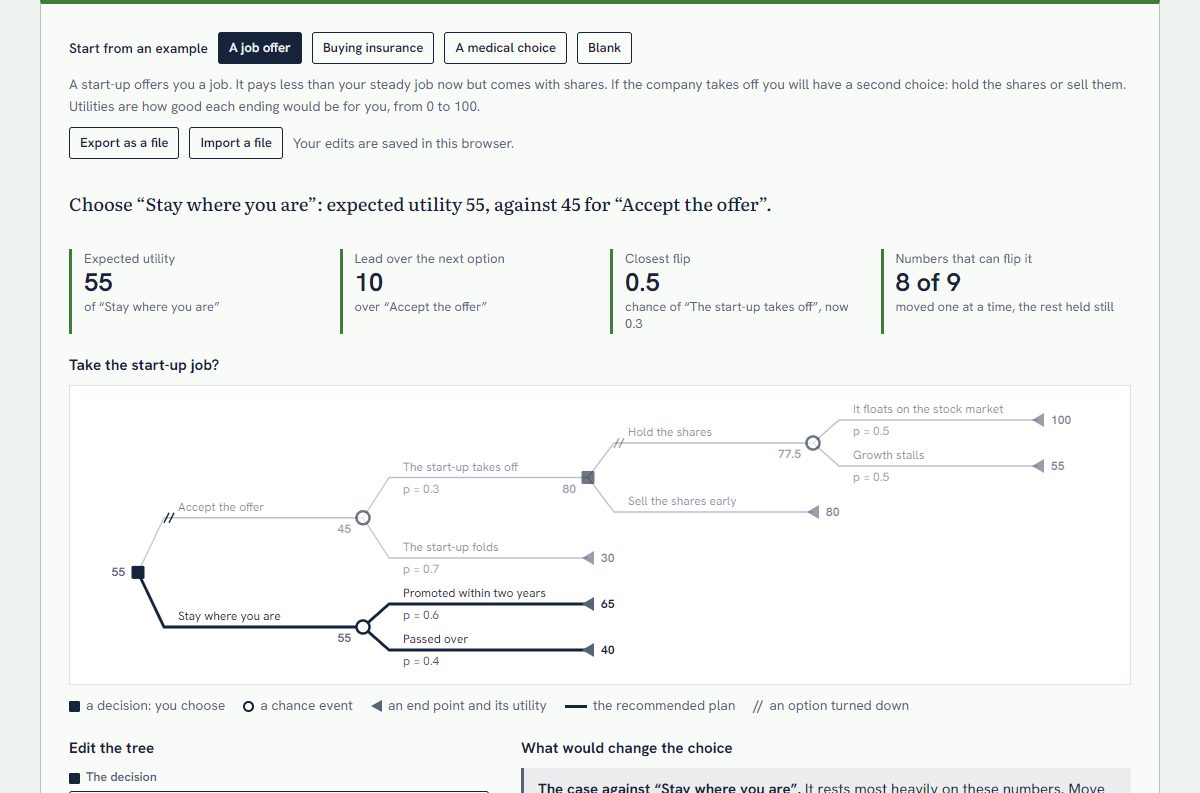
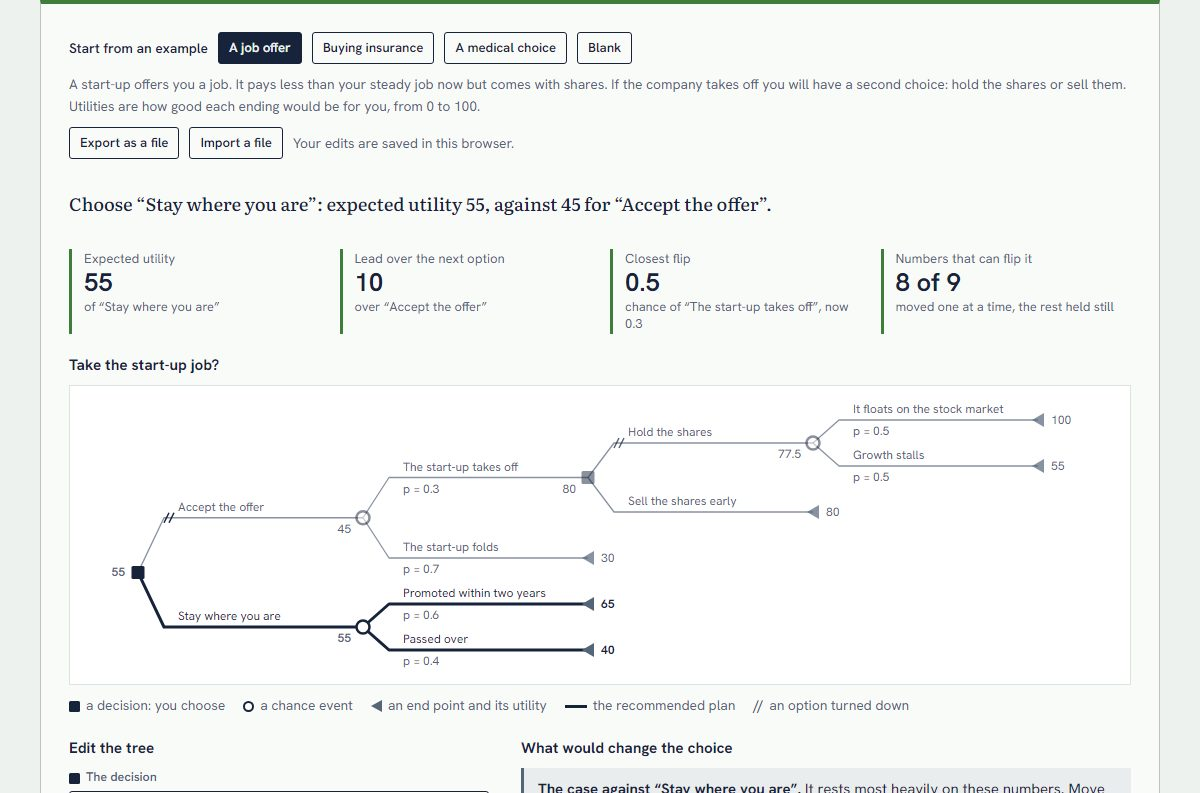
Review project 29: fix a wrong 'never' flip, bound utilities, contrast and focus

diff --git a/365projects/29/index.html b/365projects/29/index.html
@@ -11,6 +11,9 @@
   <link rel="stylesheet" href="../../assets/site.css">
   <link rel="stylesheet" href="../kit/kit.css">
   <style>
+    /* A name can be 80 letters with no space in it: let it break and never widen the page. */
+    #app { overflow-wrap: break-word; }
+    #app .chart-legend span { min-width: 0; max-width: 100%; overflow-wrap: anywhere; }
     .stack { display: grid; grid-template-columns: minmax(0, 1fr); gap: 10px; min-width: 0; }
     .verdict { font: 500 1.12rem/1.45 var(--serif); }
     .file-btn { cursor: pointer; }
@@ -26,8 +29,11 @@
     .tree .edge { fill: none; stroke: var(--slate); stroke-width: 1.3; stroke-linejoin: round; }
     .tree .edge.plan { stroke: var(--ink); stroke-width: 3; }
     .tree .slash { fill: none; stroke: var(--ink); stroke-width: 1.5; }
-    .tree .edge.off, .tree .slash.off { opacity: 0.4; }
-    .tree .node.off { opacity: 0.62; }
+    /* Branches turned down are lighter but still readable: slate text is 6:1 on white, and the lines and shapes stay above 3:1. */
+    .tree .edge.off, .tree .slash.off { opacity: 0.7; }
+    .tree .node.off text { fill: var(--slate); font-weight: 400; }
+    .tree .node.off .sq, .tree .node.off .ci { opacity: 0.5; }
+    .tree .node.off .tri { opacity: 0.7; }
     .tree .sq { fill: var(--ink); }
     .tree .ci { fill: #fff; stroke: var(--ink); stroke-width: 2.5; }
     .tree .tri { fill: var(--slate); }
@@ -57,12 +63,17 @@
     .n-nums .field { flex: 0 0 96px; }
     .n-kids { margin-left: 4px; padding: 4px 0 2px 12px; border-left: 2px solid var(--rule); display: grid; grid-template-columns: minmax(0, 1fr); gap: 14px; }
     .n-foot { display: flex; flex-wrap: wrap; gap: 8px 12px; align-items: center; justify-content: space-between; }
+    .n-foot > div { min-width: 0; }
     .n-foot .note { font-size: 0.86rem; padding: 8px 10px; }
     .n-foot .note .btn { margin-top: 6px; display: block; }
     @media (max-width: 520px) { .n-kids { margin-left: 2px; padding-left: 8px; } }
 
-    .case { margin: 8px 0 0; padding-left: 1.3em; display: grid; gap: 4px; }
+    .case { margin: 8px 0 0; padding-left: 1.3em; display: grid; grid-template-columns: minmax(0, 1fr); gap: 4px; }
     .flips .tbl td.num { white-space: normal; }
+    /* Names may break anywhere; numbers never break. */
+    .flips .tbl td:first-child, .flips .tbl td:last-child { overflow-wrap: anywhere; }
+    .flips .tbl td:first-child { min-width: 9em; }
+    .flips .tbl td:last-child { min-width: 5em; }
     @media (max-width: 520px) { .flips .tbl th { white-space: normal; } .flips .tbl th, .flips .tbl td { padding: 6px 6px; } .n-head { grid-template-columns: minmax(0, 1fr) 108px auto; gap: 6px; } }
   </style>
 </head>
@@ -79,12 +90,12 @@
 
     <section class="p-sec finding">
       <h2>One finding</h2>
-      <p>In the job-offer example, staying put beats the start-up by 55 to 45 on a 0 to 100 scale. Two numbers carry the argument: the choice flips if the chance of the start-up taking off is 0.5 and not 0.3, or if its failure is rated 44 and not 30. How good success would be hardly matters. The best ending would have to be worth 172, on a scale that stops at 100.</p>
+      <p>In the job-offer example, staying put beats the start-up by 55 to 45 on a 0 to 100 scale. The choice is most sensitive to two numbers: it flips if the chance of the start-up taking off is 0.5 and not 0.3, or if its failure is rated 44.3 and not 30. How good success would be hardly matters. The best ending would have to be worth about 172, on a scale that stops at 100.</p>
     </section>
 
     <section class="p-sec">
       <h2>The idea</h2>
-      <p>Rational choice theory has a simple recipe for deciding under uncertainty. List what you could do. For each option, list what might happen and how likely it is. Say how much you would value each ending. Then pick the option whose endings are best on average, weighted by their probabilities. John von Neumann and Oskar Morgenstern showed in 1944 that anyone whose preferences over gambles satisfy a few consistency conditions behaves as if following this recipe, and Leonard Savage extended the result to probabilities that are personal degrees of belief. Howard Raiffa and others then turned it into a working method, decision analysis, with the decision tree as its diagram.</p>
+      <p>Rational choice theory has a simple recipe for deciding under uncertainty. List what you could do. For each option, list what might happen and how likely it is. Say how much you would value each ending. Then pick the option whose endings are best on average, weighted by their probabilities. John von Neumann and Oskar Morgenstern showed that anyone whose preferences over gambles satisfy a few consistency conditions behaves as if following this recipe (their book appeared in 1944 and the proof in its second edition of 1947), and Leonard Savage extended the result to probabilities that are personal degrees of belief. Howard Raiffa and others then turned it into a working method, decision analysis, with the decision tree as its diagram.</p>
       <p>A tree earns its keep when choices come in sequence. Take the job and you may later face a second choice that staying put would never offer. The rule for such trees is to reason backwards: settle what you would do at the last decision, replace that decision with its value, and repeat until you reach the first. Reasoning forwards from today tempts you to compare options as if your later self had no say.</p>
       <p>The recipe's weak point is its ingredients. Nobody knows that the start-up has a 30% chance, or that failure is worth 30 out of 100. So the useful output of a tree is rarely the number at its root. It is the list of assumptions the recommendation depends on, with a figure for how wrong each would have to be. If the choice survives any plausible value of a number, stop arguing about that number. If it flips when a guess moves from 0.3 to 0.35, the tree has not decided anything, and it has told you exactly what to go and find out.</p>
     </section>
@@ -92,17 +103,17 @@
     <section class="p-sec">
       <h2>How it works</h2>
       <h3>The tree</h3>
-      <p>There are three kinds of node. At a <strong>decision</strong> (a square) you choose one branch. At a <strong>chance event</strong> (a circle) the world chooses, and each branch has a probability; the probabilities out of one circle must sum to 1. An <strong>end point</strong> (a triangle) carries a utility: a number for how good that ending is, on any scale you like as long as you use the same one throughout. The first node is always a decision, and its branches are the options you are choosing between today. Any branch can lead to a further decision or chance event, up to six levels.</p>
+      <p>There are three kinds of node. At a <strong>decision</strong> (a square) you choose one branch. At a <strong>chance event</strong> (a circle) the world chooses, and each branch has a probability; the probabilities out of one circle must sum to 1, to within one part in 100,000. An <strong>end point</strong> (a triangle) carries a utility: a number for how good that ending is, on any scale you like (up to a billion either side of zero) as long as you use the same one throughout. The first node is always a decision, and its branches are the options you are choosing between today. Any branch can lead to a further decision or chance event, up to six levels.</p>
       <h3>Rolling back</h3>
       <p>The value <var>V</var> of every node is computed from the end points towards the root:</p>
       <p class="eq">end point: <var>V</var> = <var>u</var> &nbsp;&nbsp;&nbsp; chance: <var>V</var> = Σ<sub><var>i</var></sub> <var>p</var><sub><var>i</var></sub> <var>V</var><sub><var>i</var></sub> &nbsp;&nbsp;&nbsp; decision: <var>V</var> = max<sub><var>i</var></sub> <var>V</var><sub><var>i</var></sub></p>
-      <p>The branch that attains the maximum at each decision is the one to take (the earlier branch, if two are level). The recommended plan is the first choice together with the choice at every later decision that can still be reached, drawn as the thick line. Options turned down are marked with two strokes and faded, though their values are still shown, since a faded branch is what the sensitivity analysis is trying to bring back.</p>
+      <p>The branch that attains the maximum at each decision is the one to take (the earlier branch, if two are level). The recommended plan is the first choice together with the choice at every later decision that can still be reached, drawn as the thick line. Options turned down are marked with two strokes and drawn lighter, though their values are still shown, since a turned-down branch is what the sensitivity analysis is trying to bring back. The outline under "Edit the tree" gives the same values in words: under each decision the branch to take, and under each decision and chance event its expected utility.</p>
       <h3>One-way sensitivity</h3>
       <p>Take any single number <var>x</var> in the tree: a utility, or a probability. It sits under exactly one of today's options, call it <var>A</var>. As <var>x</var> moves and everything else stays put, only <var>A</var>'s value <var>f</var>(<var>x</var>) changes; the best of the other options is a constant <var>M</var>. The first choice changes hands where</p>
       <p class="eq"><var>f</var>(<var>x</var>) = <var>M</var></p>
       <p>When a probability moves, its sibling branches are rescaled in proportion so that the total stays 1: if <var>p</var><sub>1</sub> becomes <var>x</var>, each other <var>p</var><sub><var>j</var></sub> becomes <var>p</var><sub><var>j</var></sub> (1 − <var>x</var>) / (1 − <var>p</var><sub>1</sub>). A chance event with two branches therefore has one free probability, and the table lists it once.</p>
       <p>The function <var>f</var> is not a straight line when there are later decisions under <var>A</var>, because the best later choice can itself switch as <var>x</var> moves. But it has a known shape. Each later decision takes a maximum of straight lines and each chance event averages them, so <var>f</var> is piecewise linear, and it only ever moves in one direction as <var>x</var> rises. A higher utility can only raise the value of every node above it. A higher probability moves its own chance event's value along a straight line, up if that branch is better than the average of its siblings and down if it is worse, and the nodes above pass the movement on without reversing it. So <var>f</var> crosses <var>M</var> at most once.</p>
-      <p>That pins the search down. For a probability the page checks which end of the range from 0 to 1, if either, puts the other side ahead, and halves the interval between there and the current value until it is narrower than one part in 10<sup>13</sup>. For a utility, which has no upper or lower limit, it steps outwards in doubling strides until <var>f</var> crosses <var>M</var> and then halves the bracket in the same way. If <var>A</var> is ahead and lowering the utility stops making any difference (the plan under <var>A</var> has stopped using that ending), no lower value will ever matter, and the answer is "never". Each number therefore has at most one flip point, and the table gives it.</p>
+      <p>That pins the search down. For a probability the page checks which end of the range from 0 to 1, if either, puts the other side ahead, and halves the interval between there and the current value until it is narrower than one part in 10<sup>13</sup>. For a utility, which has no upper or lower limit, it steps outwards in doubling strides until <var>f</var> crosses <var>M</var> and then halves the bracket in the same way. Before stepping, it looks once far out in the direction that could change the choice, at 2<sup>59</sup> (about 6 × 10<sup>17</sup>) times the scale of the tree. Because <var>f</var> moves one way only, an unchanged choice out there means an unchanged choice all the way, and the answer is "never". That is what happens when <var>A</var> is ahead and the plan under <var>A</var> does not use the ending in question, or when the ending has no chance of being reached. Each number therefore has at most one flip point, and the table gives it. Two numbers whose flips are equally far away are listed in the order they have in the tree.</p>
       <p>In the job example the chance <var>x</var> of the start-up taking off gives <var>f</var>(<var>x</var>) = 80<var>x</var> + 30(1 − <var>x</var>), since selling the shares (80) beats holding them (77.5). Staying is worth 55, so the flip is at 30 + 50<var>x</var> = 55, <var>x</var> = 0.5.</p>
       <h3>Most fragile first</h3>
       <p>To put probabilities and utilities in one list, each flip is measured as a share of the number's scale. For a probability that is the change in probability. For a utility it is the change divided by the gap between the best and worst end points in the tree, which makes the measure unaffected by the units you chose for utility. The table is sorted by that share, smallest first, and the three smallest are spelled out above it. Numbers that cannot change the choice at any value are listed last as "never".</p>

diff --git a/365projects/29/app.js b/365projects/29/app.js
@@ -1,5 +1,5 @@
 // Day 29: Decision Tree Debater. Interface.
-import { $, el, svgEl, fmt, mount, numberField, textField, select, button, stat, note, table, chart, store, reducedMotion } from "../kit/kit.js";
+import { $, el, svgEl, fmt, mount, numberField, textField, select, button, stat, note, table, chart, store, download, reducedMotion } from "../kit/kit.js";
 import { LIMITS, PRESETS, blankTree, sanitise, plain, walk, find, size, addChild, removeNode, setType, normalise, validate, rollback, planSteps, sensitivity, spread, curve } from "./logic.js";
 
 mount();
@@ -12,8 +12,13 @@ function firstTree() {
 }
 const state = { ...firstTree(), param: "" };
 
-const val = (x) => fmt.sig(x, 4);
-const prob = (x) => fmt.sig(x, 3);
+// Very large and very small numbers are written as 1.235 × 10¹⁹, so that no cell or sentence fills with digits.
+const SUP = "⁰¹²³⁴⁵⁶⁷⁸⁹";
+const sci = (x, d) => { const [m, e] = x.toExponential(d).split("e"); return `${m} × 10${[...String(Number(e))].map((c) => (c === "-" ? "⁻" : SUP[c])).join("")}`; };
+const wide = (x) => Number.isFinite(x) && x !== 0 && (Math.abs(x) >= 1e10 || Math.abs(x) < 1e-6);
+const val = (x) => (wide(x) ? sci(x, 3) : fmt.sig(x, 4));
+const prob = (x) => (wide(x) ? sci(x, 2) : fmt.sig(x, 3));
+const nodesText = (n) => `${n} ${n === 1 ? "node" : "nodes"}`;
 const nameOf = (node) => node.name.trim() || (node.type === "end" ? "Unnamed end point" : "Unnamed branch");
 // replaceChildren that, like el(), accepts arrays and skips empty values.
 const fill = (node, ...kids) => node.replaceChildren(...kids.flat(Infinity).filter((k) => k != null && k !== false));
@@ -26,7 +31,8 @@ const presetButtons = [...PRESETS.map((p) => [p.key, p.label]), ["blank", "Blank
 });
 const blurb = el("p", { class: "small muted" });
 const fileNote = el("div");
-const exportLink = el("a", { class: "btn small", download: "decision-tree.json", href: "#", text: "Export as a file" });
+// A real button, not a link: Safari leaves links out of the Tab order unless the visitor has changed a setting.
+const exportButton = button("Export as a file", () => download("decision-tree.json", JSON.stringify(plain(state.tree), null, 2), "application/json"), { small: true });
 const fileInput = el("input", { type: "file", accept: ".json,application/json", class: "sr-only", id: "tree-file" });
 fileInput.addEventListener("change", async () => {
   const file = fileInput.files[0];
@@ -40,7 +46,7 @@ fileInput.addEventListener("change", async () => {
     state.param = "";
     structural();
     save();
-    fill(fileNote, note("good", `Loaded ${file.name}: ${size(state.tree).nodes} nodes.`));
+    fill(fileNote, note("good", `Loaded ${file.name}: ${nodesText(size(state.tree).nodes)}.`));
   } catch (e) {
     fill(fileNote, note("bad", `Could not load ${file.name}. ${e.message} Export a tree from this page to see the format.`));
   }
@@ -55,7 +61,15 @@ function load(key) {
   fill(fileNote);
   structural();
 }
+/** Mark the example on show, if the tree is still one, and say what it is. */
+function showPreset() {
+  for (const b of presetButtons) { const on = b.dataset.preset === state.preset; b.classList.toggle("primary", on); b.setAttribute("aria-pressed", on); }
+  blurb.textContent = PRESETS.find((p) => p.key === state.preset)?.blurb
+    || (state.preset === "own" ? "Your own tree, as you left it. Pick an example to start again from that." : "A blank tree: one decision, two options. Rename them, give each a utility, and turn an option into a chance event to add uncertainty.");
+}
 function save() {
+  // A saved edit makes the tree the visitor's own, so no example stays marked as the one on show.
+  if (state.preset !== "own") { state.preset = "own"; showPreset(); }
   if (!saved.set("tree", plain(state.tree))) fill(fileNote, note("warn", "This browser would not save the tree, so it will be lost when the page closes. Export it as a file to keep it."));
 }
 // Any edit: the tree is now the visitor's own, so keep it.
@@ -84,23 +98,24 @@ function nodeRow(node, parent, depth) {
     const kind = select({
       label: "Leads to", value: node.type,
       options: [{ value: "decision", label: "Decision" }, { value: "chance", label: "Chance" }, { value: "end", label: "End point" }],
-      onChange: (v) => { setType(t, node.id, v); structural(); save(); },
+      onChange: (v) => { setType(t, node.id, v); structural(`select[data-kind="${node.id}"]`); save(); },
     });
+    kind.input.dataset.kind = node.id;
     // An end point at the deepest level, or in a full tree, cannot grow branches.
     if (node.type === "end" && (depth + 1 > LIMITS.depth || count + 2 > LIMITS.nodes)) for (const o of kind.input.options) o.disabled = o.value !== "end";
-    const x = button("×", () => { removeNode(t, node.id); structural(); save(); }, { small: true, title: `Remove “${nameOf(node)}” and everything under it` });
+    const x = button("×", () => { removeNode(t, node.id); structural(`[data-focus="${parent.id}"]`); save(); }, { small: true, title: `Remove “${nameOf(node)}” and everything under it` });
     x.setAttribute("aria-label", `Remove ${nameOf(node)} and everything under it`);
     x.classList.add("x");
     head.push(kind.el, x);
   }
   const nums = [];
   if (parent && parent.type === "chance") nums.push(numField("Probability", node.p, { min: 0, max: 1 }, (v) => { node.p = v; }).el);
-  if (node.type === "end") nums.push(numField("Utility", node.value, { negative: true }, (v) => { node.value = v; }).el);
+  if (node.type === "end") nums.push(numField("Utility", node.value, { negative: true, min: -LIMITS.utility, max: LIMITS.utility }, (v) => { node.value = v; }).el);
 
   const row = el("div", { class: "n-row" }, el("div", { class: `n-head${parent ? "" : " root"}` }, head), nums.length ? el("div", { class: "n-nums" }, nums) : null);
   if (node.type === "end") return el("div", { class: "n" }, row);
   const full = node.children.length >= LIMITS.children || depth + 1 > LIMITS.depth || count >= LIMITS.nodes;
-  const add = button(node.type === "chance" ? "Add an outcome" : "Add an option", () => { const c = addChild(t, node.id); structural(c?.id); save(); },
+  const add = button(node.type === "chance" ? "Add an outcome" : "Add an option", () => { const c = addChild(t, node.id); structural(c && `[data-focus="${c.id}"]`, true); save(); },
     { small: true, title: full ? `This page allows ${LIMITS.children} branches from a node, ${LIMITS.depth} levels and ${LIMITS.nodes} nodes in all.` : undefined });
   add.disabled = full;
   return el("div", { class: "n" }, row,
@@ -110,12 +125,16 @@ function nodeRow(node, parent, depth) {
 
 function renderEditor() { fill(editor, nodeRow(state.tree, null, 0)); }
 
-// After anything that adds or removes a node: rebuild the editor, then put the cursor in the new row.
-function structural(focusId) {
+// After anything that adds or removes a node the editor is rebuilt, which would drop the keyboard focus. It is put
+// back by hand: on a new row's name (selected, ready to be typed over), on the control that was just used, or on the
+// parent of a row that has gone.
+function structural(focus, selectText = false) {
   renderEditor();
   refresh();
-  const target = focusId && editor.querySelector(`[data-focus="${focusId}"]`);
-  if (target) { target.focus(); target.select(); }
+  const target = focus && editor.querySelector(focus);
+  if (!target) return;
+  target.focus();
+  if (selectText) target.select();
 }
 
 /* --------------------------------------------------------------------------- outputs */
@@ -149,7 +168,7 @@ $("#app").append(
   el("div", { class: "stack" },
     el("div", { class: "row" }, el("span", { class: "small", style: { fontWeight: "600" }, text: "Start from an example" }), presetButtons),
     blurb,
-    el("div", { class: "row" }, exportLink, el("label", { class: "btn small file-btn", for: "tree-file" }, "Import a file", fileInput),
+    el("div", { class: "row" }, exportButton, el("label", { class: "btn small file-btn", for: "tree-file" }, "Import a file", fileInput),
       el("span", { class: "small muted", text: "Your edits are saved in this browser." })),
     fileNote),
   el("div", { class: "stack" }, verdict, problemBox),
@@ -229,7 +248,7 @@ function drawTree(result, bad) {
       if (node.type === "end" && worthNow != null) g.append(svgEl("text", { class: "u", x: x + 13, y: y + 4 }, val(worthNow)));
     } else {
       const right = worthNow != null ? val(worthNow) : "";
-      const lead = parent && parent.type === "chance" && Number.isFinite(node.p) ? `${prob(node.p)}  ` : "";
+      const lead = parent && parent.type === "chance" && Number.isFinite(node.p) ? `p = ${prob(node.p)}  ` : "";
       const room = W - x - 13 - textWidth(right) * 1.1 - 14;
       const t = svgEl("text", { x: x + 13, y: y + 4 }, lead ? svgEl("tspan", { class: "p" }, lead) : null, clip(nameOf(node), room - textWidth(lead)));
       g.append(t);
@@ -269,21 +288,25 @@ function refresh() {
   const result = ok ? rollback(t) : null;
   lastWidth = treeBox.clientWidth;
 
-  for (const b of presetButtons) { const on = b.dataset.preset === state.preset; b.classList.toggle("primary", on); b.setAttribute("aria-pressed", on); }
-  blurb.textContent = PRESETS.find((p) => p.key === state.preset)?.blurb
-    || (state.preset === "own" ? "Your own tree, as you left it. Pick an example to start again from that." : "A blank tree: one decision, two options. Rename them, give each a utility, and turn an option into a chance event to add uncertainty.");
-  exportLink.href = `data:application/json;charset=utf-8,${encodeURIComponent(JSON.stringify(plain(t), null, 2))}`;
+  showPreset();
 
   // The line under each node's branches: do a chance node's probabilities add up, does the node have branches at all?
+  // When the tree can be worked out it also gives the node's expected utility and, at a decision, the branch to take.
+  // The drawing shows the same numbers, but a drawing cannot be read by a screen reader and this line can.
   walk(t, (node) => {
     const box = editor.querySelector(`[data-status="${node.id}"]`);
     if (!box) return;
     const p = problems.find((x) => x.id === node.id);
     if (p && p.sum != null) {
       fill(box, note("warn", `These probabilities sum to ${fmt.sig(p.sum, 6)}, not 1. `,
-        button("Rescale them to sum to 1", () => { normalise(t, node.id); structural(); save(); }, { small: true })));
+        button("Rescale them to sum to 1", () => { normalise(t, node.id); structural(`[data-focus="${node.id}"]`); save(); }, { small: true })));
     } else if (p) fill(box, note("bad", p.message));
-    else fill(box, node.type === "chance" ? el("span", { class: "small muted", text: "Probabilities sum to 1." }) : null);
+    else {
+      const worthNow = result ? ` Expected utility ${val(result.values.get(node.id))}.` : "";
+      const chosen = result && node.type === "decision" ? node.children.find((c) => c.id === result.best.get(node.id)) : null;
+      const text = node.type === "chance" ? `Probabilities sum to 1.${worthNow}` : chosen ? `Best branch: “${nameOf(chosen)}”.${worthNow}` : "";
+      fill(box, text ? el("span", { class: "small muted", text }) : null);
+    }
   });
 
   treeTitle.textContent = nameOf(t);
@@ -295,7 +318,7 @@ function refresh() {
     verdict.textContent = "The tree cannot be worked out yet.";
     fill(problemBox, problems.slice(0, 6).map((p) => note("bad", p.message)),
       problems.length > 6 ? note("", `And ${problems.length - 6} more. They are marked in red in the drawing and listed in the editor.`) : null);
-    treeSvg.setAttribute("aria-label", `Decision tree with ${size(t).nodes} nodes. It cannot be worked out yet.`);
+    treeSvg.setAttribute("aria-label", `Decision tree with ${nodesText(size(t).nodes)}. It cannot be worked out yet.`);
     return;
   }
   fill(problemBox);
@@ -311,7 +334,7 @@ function refresh() {
     : tie ? `“${nameOf(best)}” and “${nameOf(second.o)}” are level on ${val(result.value)}.`
     : `Choose “${nameOf(best)}”: expected utility ${val(result.value)}, against ${val(second.v)} for “${nameOf(second.o)}”.`)
     + (later.length ? ` Then, ${later.join("; ")}.` : "");
-  treeSvg.setAttribute("aria-label", `Decision tree with ${size(t).nodes} nodes. ${verdict.textContent} The editor below lists every branch.`);
+  treeSvg.setAttribute("aria-label", `Decision tree with ${nodesText(size(t).nodes)}. ${verdict.textContent} The editor below lists every branch with its probability, its utility and what it is worth.`);
   sValue.set(val(result.value), `of “${nameOf(best)}”`);
   sLead.set(second ? val(result.value - second.v) : "–", second ? `over “${nameOf(second.o)}”` : "there is no other option");
 

diff --git a/365projects/29/logic.js b/365projects/29/logic.js
@@ -7,8 +7,10 @@
 // node.name labels the branch leading into the node; node.p only matters when the parent is a chance node.
 // The root is always a decision, and its children are "the options".
 
-export const TOL = 1e-6;
-export const LIMITS = { nodes: 60, depth: 6, children: 6, name: 80 };
+// Probabilities are shown to six significant figures, so six of them typed back in as shown can be 3e-6 away from 1.
+export const TOL = 1e-5;
+// utility: the largest size a utility may have. Without a limit a number like 1e308 overflows the sums and the charts.
+export const LIMITS = { nodes: 60, depth: 6, children: 6, name: 80, utility: 1e9 };
 export const TYPES = ["decision", "chance", "end"];
 
 const isNum = (x) => typeof x === "number" && Number.isFinite(x);
@@ -141,11 +143,12 @@ export function validate(root) {
   const problems = [];
   walk(root, (node) => {
     if (node.type === "end") {
-      if (!isNum(node.value)) problems.push({ id: node.id, message: `${label(node)}: the utility must be a number.` });
+      if (!isNum(node.value) || Math.abs(node.value) > LIMITS.utility) problems.push({ id: node.id, message: `${label(node)}: the utility must be a number from -${LIMITS.utility.toLocaleString("en-GB")} to ${LIMITS.utility.toLocaleString("en-GB")}.` });
       return;
     }
     if (!node.children.length) {
-      problems.push({ id: node.id, message: `${label(node)} has no branches. Add one, or turn it into an end point.` });
+      // The first decision cannot become an end point, so it is not offered that way out.
+      problems.push({ id: node.id, message: node === root ? `${label(node)} has no options. Add at least one.` : `${label(node)} has no branches. Add one, or turn it into an end point.` });
       return;
     }
     if (node.type === "chance") {
@@ -299,18 +302,22 @@ export function thresholds(root, param) {
   }
 
   // A utility: f never falls as x rises, so A can only lose its lead by x falling, and can only gain it by x rising.
+  // Because f moves one way only, one look far out in that direction settles whether there is a flip at all: if the
+  // choice is unchanged there, it is unchanged everywhere on the way. (Comparing two nearby values of f to see whether
+  // it has gone flat is not safe: an end point reached with probability 1e-17 moves f by less than rounding error.)
   const dir = leads ? -1 : 1;
   const side = leads ? "below" : "above";
   const scale = Math.max(1, Math.abs(x0), Math.abs(M - base[a]), spread(root).range);
-  let prev = x0, hPrev = h(x0);
-  for (let k = 0; k < 60; k++) {
+  const far = x0 + dir * scale * 2 ** 59;
+  if (!(h(far) > 0)) return out;
+  // Step outwards in doubling strides to bracket the crossing, then halve the bracket.
+  let prev = x0;
+  for (let k = 0; k < 59 && !out[side]; k++) {
     const x = x0 + dir * scale * (2 ** k - 0.5);
-    const hx = h(x);
-    if (hx > 0) { out[side] = { at: bisect(h, prev, x), to }; break; }
-    // Falling x: f is convex and never falls as x rises, so once it is flat it stays flat and no lower value will cross.
-    if (leads && hx === hPrev) break;
-    prev = x; hPrev = hx;
+    if (h(x) > 0) out[side] = { at: bisect(h, prev, x), to };
+    prev = x;
   }
+  if (!out[side]) out[side] = { at: bisect(h, prev, far), to };
   return out;
 }
 
@@ -327,7 +334,10 @@ export function sensitivity(root) {
     flips.sort((x, y) => x.distance - y.distance);
     return { ...p, ...t, nearest: flips[0] || null, distance: flips.length ? flips[0].distance : Infinity };
   });
-  return rows.sort((x, y) => x.distance - y.distance);
+  // Distances that differ only by rounding error (two numbers that are equally far from their flips) count as equal,
+  // so that such rows stay in the order of the tree whatever units the utilities are in.
+  const key = (d) => (Number.isFinite(d) ? Number(d.toPrecision(9)) : d);
+  return rows.sort((x, y) => (key(x.distance) === key(y.distance) ? 0 : key(x.distance) - key(y.distance)));
 }
 
 /** Each option's expected utility as one number runs from lo to hi: { xs, series: [{ id, name, ys }] }. */

diff --git a/365projects/29/README.md b/365projects/29/README.md
@@ -7,7 +7,7 @@ Live at https://varad-patel.github.io/365projects/29/ (part of [365 projects in 
 | | |
 |---|---|
 | Question | Given the probabilities and utilities you believe, which option should you choose, and which single assumption would have to change, and by how much, to flip that choice? |
-| One finding | In the job-offer example staying put beats the start-up by 55 to 45, and the choice flips if the chance of the start-up taking off is 0.5 and not 0.3 or if its failure is rated 44 and not 30, while the best ending would have to be worth 172 on a 0 to 100 scale to matter. |
+| One finding | In the job-offer example staying put beats the start-up by 55 to 45, and the choice flips if the chance of the start-up taking off is 0.5 and not 0.3 or if its failure is rated 44.3 and not 30, while the best ending would have to be worth about 172 on a 0 to 100 scale to matter. |
 | Main limit | Every probability and utility is the user's own guess, and the analysis moves one number at a time, so it cannot show what several slightly wrong assumptions do together. |
 | PPE concept | Rational choice |
 | Skills | Expected value, sensitivity analysis |
